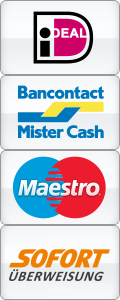
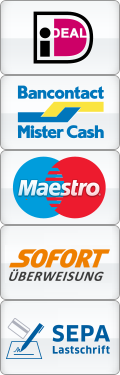
Changes for zuhause

diff --git a/src/components/pages/performers/performers.ts b/src/components/pages/performers/performers.ts
@@ -14,6 +14,7 @@ import { RawLocation } from 'vue-router/types/router';
 import { listPerformers } from 'sensejs/performer';
 import { Performer, PerformerStatus } from 'sensejs/performer/performer.model';
 import { addFavourite, removeFavourite } from 'sensejs/performer/favourite';
+import { openModal } from '../../../util';
 
 @WithRender
 @Component({
@@ -27,10 +28,12 @@ export default class Performers extends Vue {
 
     total: number = 0;
     services: string[] = ['cam', 'phone', 'sms', 'email', 'videocall'];
+    countryBanners: string [] = ['de'];
 
     getAvatarImage = getAvatarImage;
     getPerformerStatus = getPerformerStatus;
     getPerformerLabel = getPerformerLabel;
+    openModal = openModal;
 
     addFavourite = (performer: Performer) => addFavourite(this.$store.state.authentication.user.id, performer.id).then(() => performer.isFavourite = true);
     removeFavourite = (performer: Performer) => removeFavourite(this.$store.state.authentication.user.id, performer.id).then(() => performer.isFavourite = false);
@@ -47,6 +50,10 @@ export default class Performers extends Vue {
 
     get noPerformers(){
         return this.performers.length === 0;
+    }
+
+    get getBanner(){
+        return (this.countryBanners.indexOf(config.Country) !== -1);
     }
 
     hasService(performerId: number, service: string){

diff --git a/src/components/pages/performers/performers.tpl.html b/src/components/pages/performers/performers.tpl.html
@@ -4,6 +4,15 @@
         <div class="performers-notfound" v-if="noPerformers">{{ $t('performers.noperformersfound') }}</div>
 
         <div class="performers">
+            <div class="col-xs-6 col-sm-3 col-lg-15 grid" v-if="getBanner">
+                <div class="performers__block">
+                    <div class="performers__info">
+                        <div class="performers__image">
+                            <img v-on:click="openModal('register')" src="../../../assets/images/de/gridbanner.png" />
+                        </div>
+                    </div>
+                </div>
+            </div>
             <div class="col-xs-6 col-sm-3 col-lg-15 grid" v-for="performer in performers">
                 <div class="performers__block">
                     <router-link v-if="performer" :to="{ name: 'Profile', params: { id: performer.advertId }}">

diff --git a/src/components/modal/modal-login/modal-login.tpl.html b/src/components/modal/modal-login/modal-login.tpl.html
@@ -10,8 +10,8 @@
             <div class="form__group">
                 <label v-t="'modals.login.password'"></label>
                 <input type="password" required v-model="password" />
-                <button class="btn btn-large btn-orange btn-full" v-t="'modals.login.login'"></button>
-                <a class="btn btn-large btn-full" v-on:click="openModal('register')" v-t="'modals.login.register'"></a>
+                <button class="btn btn-large btn-full" v-t="'modals.login.login'"></button>
+                <a class="btn btn-large btn-orange btn-full" v-on:click="openModal('register')" v-t="'modals.login.register'"></a>
 
                 <a v-on:click="openModal('recover')">{{ $t('modals.login.forgotPassword') }}</a>
             </div>

diff --git a/src/components/layout/header/top/top.scss b/src/components/layout/header/top/top.scss
@@ -49,7 +49,7 @@
             line-height: 80%;
 
             &.large {
-                @include rem(padding, 13px 10px);
+                @include rem(padding, 16px 10px);
             }
 
             .nr {
@@ -60,9 +60,9 @@
 
             .cost {
                 font-style: normal;
-                font-weight: 300;
+                font-weight: 600;
                 color: $pallete-2;
-                @include rem(font-size, 9px);
+                @include rem(font-size, 12px);
                 letter-spacing: -0.3px;
             }
 

diff --git a/src/components/pages/profile/tabs/tabs.scss b/src/components/pages/profile/tabs/tabs.scss
@@ -157,8 +157,8 @@
                 &__cost {
                     display: inline-block;
                     color: $pallete-2;
-                    font-weight: 300;
-                    @include rem(font-size,11px);
+                    font-weight: 600;
+                    @include rem(font-size,12.5px);
                     @include rem(padding, 0px 5px);
                 }
 

diff --git a/src/components/pages/payment/payment.scss b/src/components/pages/payment/payment.scss
@@ -365,6 +365,7 @@
         #BCMC span      { background-position: 0px -75px; }
         #VXSBILL span   { background-position: 0px -150px; }
         #SOFORT span    { background-position: 0px -225px; }
+        #COMMPAY span   { background-position: 0px -300px; }
 
         &-name {
             display: block;

diff --git a/src/components/pages/profile/sidebar/sidebar.scss b/src/components/pages/profile/sidebar/sidebar.scss
@@ -65,6 +65,7 @@ $sidebar-top-height: 315px;
                 display: block;
                 @include rem(padding, 15px 40px);
                 cursor: pointer;
+                img { display: table; @include rem(margin, auto auto); }
             }
         }
 
